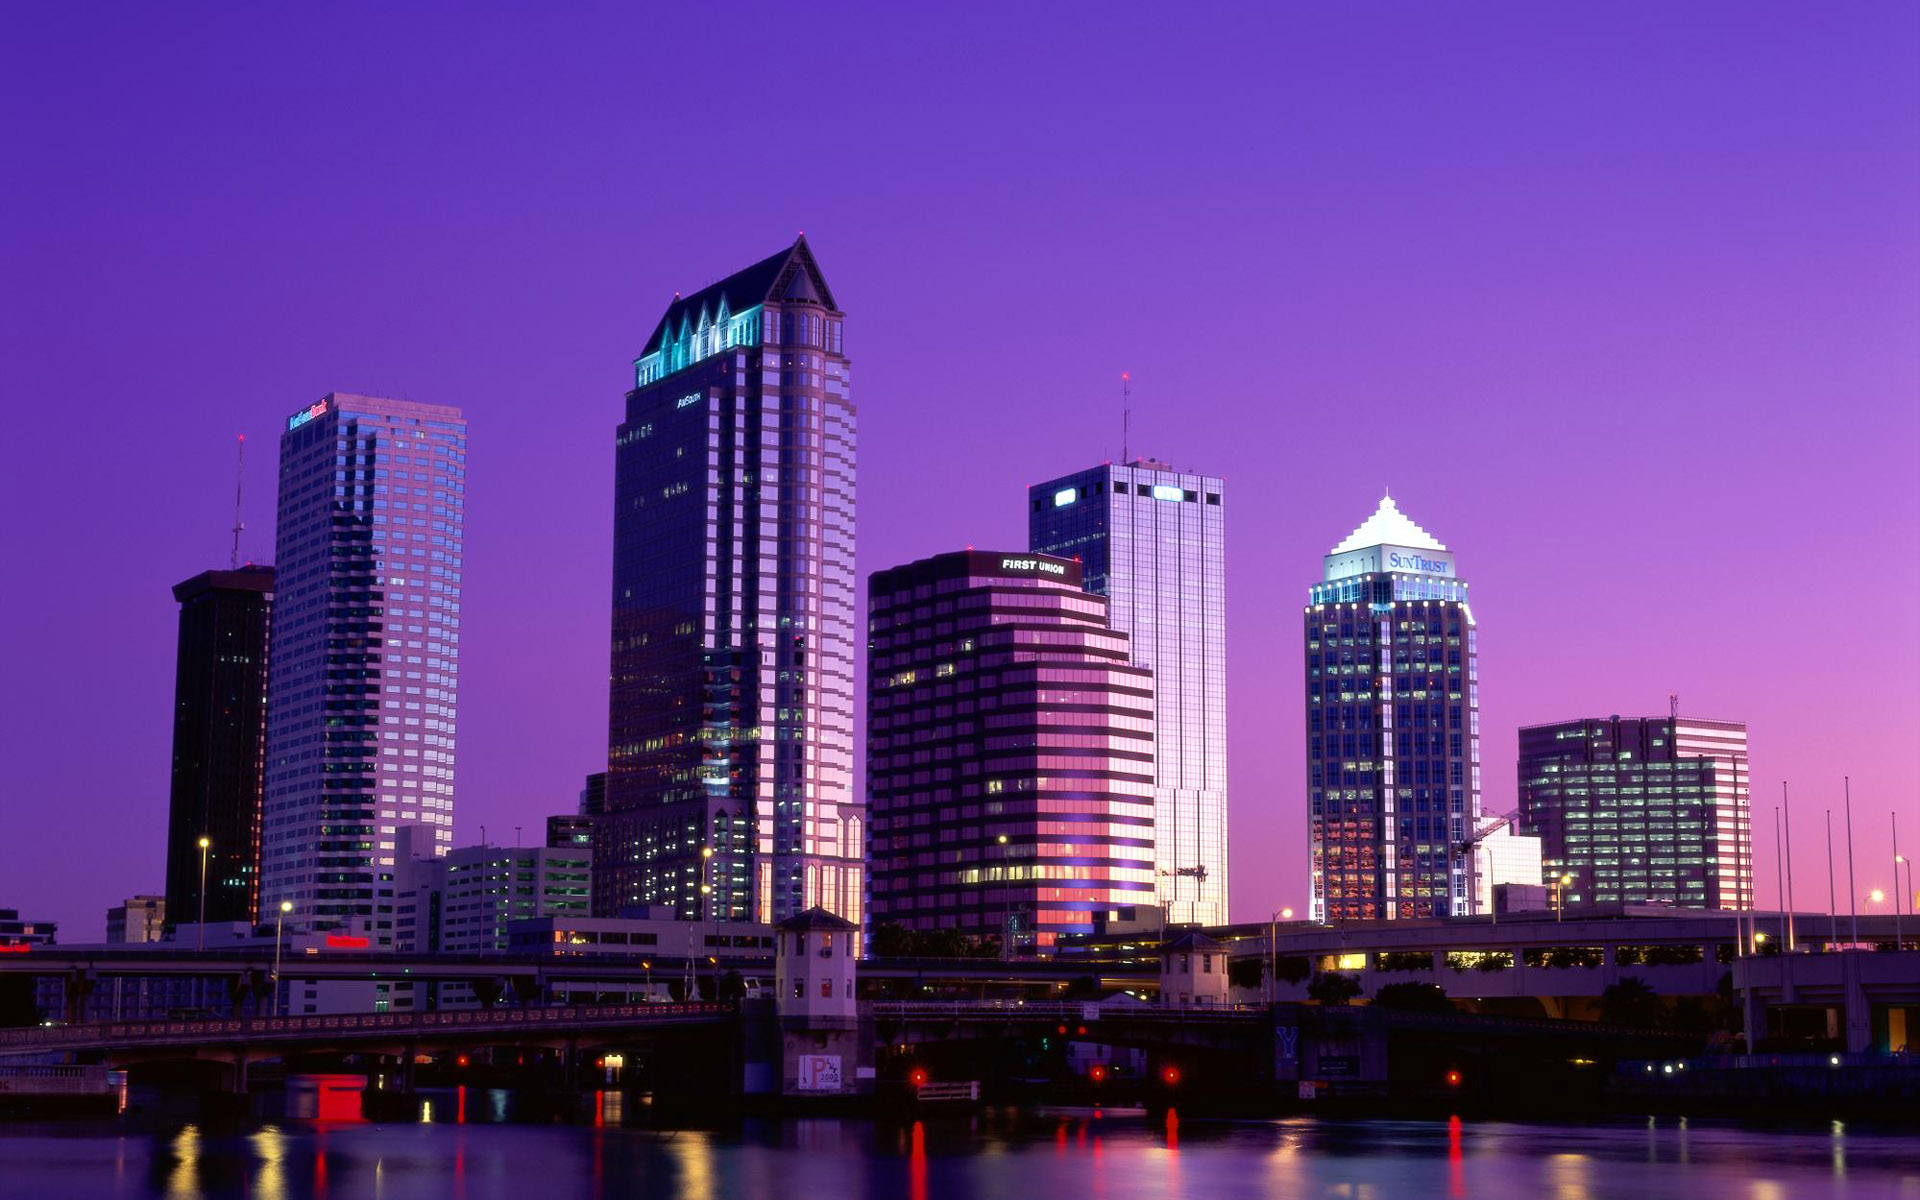
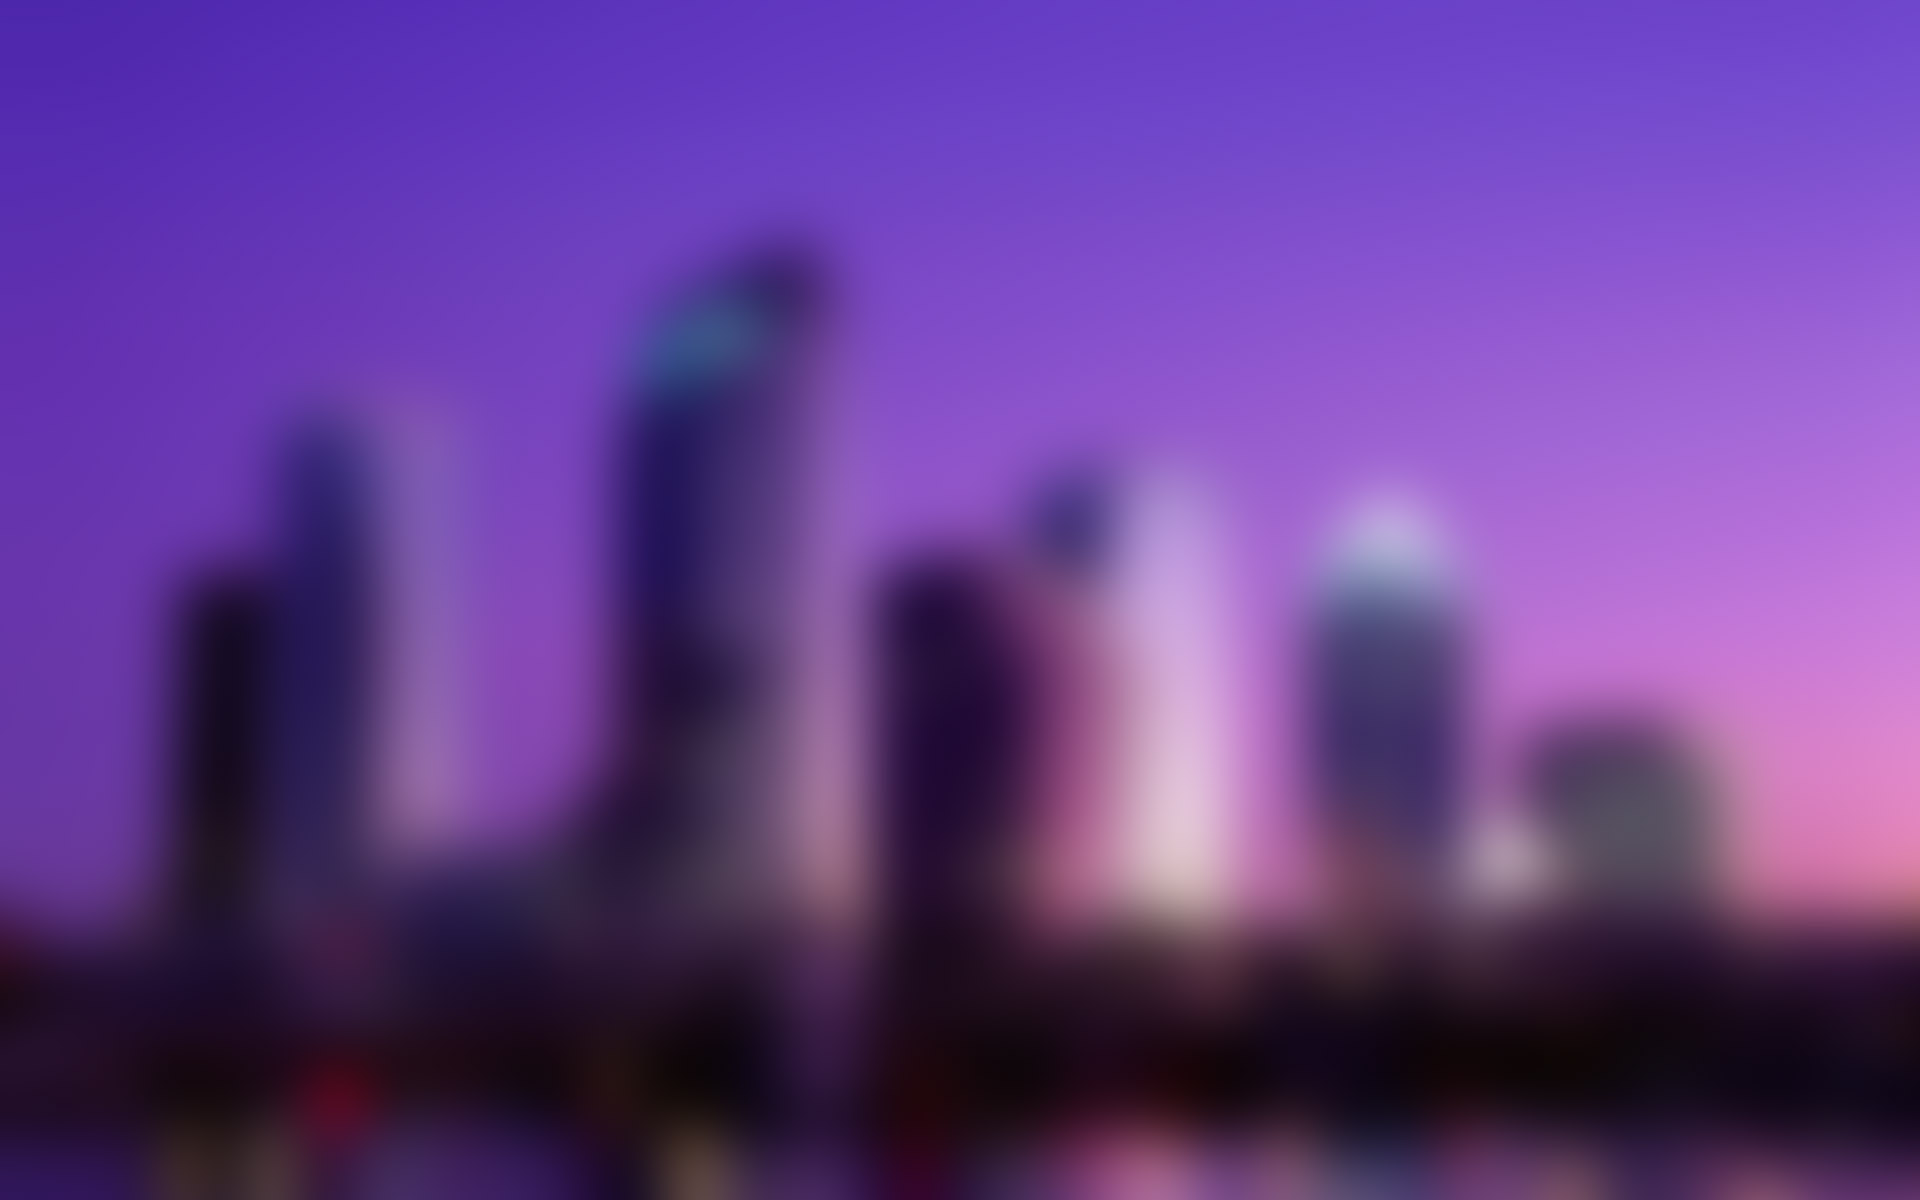
a few more categories

diff --git a/static/css/base.css b/static/css/base.css
@@ -1,25 +1,13 @@
 body {
-  background-color: #111;
+  background: url("/bg.jpg") no-repeat center center fixed;
   font-family: "Roboto", "Helvetica Neue", Helvetica, Arial, sans-serif;
   font-weight: 200;
   padding: 0;
   margin: 0;
-}
-#background {
-  position: fixed;
-  top: 0;
-  left: 0;
-  height: 100%;
-  width: 100%;
-  background: url("/bg.jpg") no-repeat center center fixed;
   -webkit-background-size: cover;
   -moz-background-size: cover;
   -o-background-size: cover;
   background-size: cover;
-  -webkit-filter: blur(20px);
-  -moz-filter: blur(20px);
-  -o-filter: blur(20px);
-  filter: blur(20px);
 }
 main {
   width: 700px;
@@ -38,7 +26,7 @@ main .nav-holder nav {
   height: 100%;
   width: 170px;
   text-align: right;
-  background-color: #666;
+  background-color: #373737;
   padding-right: 20px;
 }
 main .nav-holder nav #monitoringscape {

diff --git a/layouts/index.html b/layouts/index.html
@@ -36,8 +36,6 @@
 </head>
 <body>
 
-  <div id="background"></div>
-  
   <main>
     <div class="nav-holder">
       <nav>
@@ -50,7 +48,7 @@
         {{ end }}
         <div class="icons">
           <a href="https://github.com/bigpandaio/monitoringscape/tree/master/content"><i class="fa fa-github"></i></a>
-          <a href="https://twitter.com/home?status=bigpanda.io/monitoringscape%20%23monitoringscape)"><i class="fa fa-twitter"></i></a>
+          <a href="https://twitter.com/home?status=bigpanda.io/monitoringscape%20%23monitoringscape"><i class="fa fa-twitter"></i></a>
           <a href="https://www.linkedin.com/shareArticle?mini=true&url=bigpanda.io/monitoringscape&title=MonitoringScape"><i class="fa fa-linkedin"></i></a>
         </div>
       </nav>

diff --git a/layouts/shortcodes/tool.html b/layouts/shortcodes/tool.html
@@ -3,9 +3,9 @@
 <tr class="row">
 
   <td><a href="{{.Get 3}}" target="_blank">{{.Get 1}}</a></td>
-  <td>{{.Get 4}}</td>
   <td style="text-align: center">{{.Get 5}}</td>
   <td>{{.Get 6}}</td>
-  <td style="text-align: center">{{if $has_screenshot}}<a href="/screenshots/{{.Get 0}}/{{.Get 2}}.png" target="_blank"><img src="/screenshots/{{.Get 0}}/{{.Get 2}}.thumb.png"/></a>{{end}}
+  <td>{{.Get 4}}</td>
+  <td style="text-align: center">{{if $has_screenshot}}<a class="thumb" href="/screenshots/{{.Get 0}}/{{.Get 2}}.png" target="_blank"><img src="/screenshots/{{.Get 0}}/{{.Get 2}}.thumb.png"/></a>{{end}}
   </td>
 </tr>

diff --git a/content/system.md b/content/system.md
@@ -21,18 +21,19 @@ System monitoring tools frequently employ a **plugin architecture**, making it e
 ## Tool Overview
 {{% tools %}}
   {{% tool system Boundary        boundary "http://www.boundary.com"        ""          2011                "SaaS" %}}
-  {{% tool system Centreon   centreon "https://www.centreon.com"         ""          2005                "On Prem" %}}
+  {{% tool system Centreon   centreon "https://www.centreon.com"         ""          2003                "On Prem" %}}
   {{% tool system collectd    collectd    "https://collectd.org/"       "Open Source, Collection only" 2005     "On Prem" no-screenshot %}}
   {{% tool system CopperEgg   copperegg "http://copperegg.com/"         ""          2010                "SaaS" %}}
   {{% tool system Datadog     datadog "https://www.datadoghq.com/"      ""          2010                "SaaS" %}}
   {{% tool system "Dataloop.io" dataloop "https://www.dataloop.io/"      ""          2014                "SaaS" %}}
   {{% tool system Ganglia     ganglia "http://ganglia.info/"            "Open Source"    2001     "On Prem" %}}
   {{% tool system Icinga      icinga "https://www.icinga.org/"          "Open Source, Forked from Nagios" 2009       "On Prem" %}}
-  {{% tool system LogicMonitor   logicmonitor "http://www.logicmonitor.com/" ""          2008     "SaaS" %}}
+  {{% tool system LogicMonitor   logicmonitor "http://www.logicmonitor.com/" ""          2009     "SaaS" %}}
   {{% tool system Munin     munin "http://munin-monitoring.org/"           "Open Source"    2006     "On Prem" %}}
   {{% tool system Nagios    nagios "https://www.nagios.org/"  "Open Source"     1999      "On Prem" %}}
   {{% tool system OpenNMS   opennms "http://www.opennms.org/"  "Open Source"    2000     "On Prem" %}}
   {{% tool system OpsView   opsview "http://www.opsview.com/"  "Open Source, Forked from Nagios"    2003    "On Prem" %}}
+  {{% tool system PRTG      prtg "https://www.paessler.com/prtg"  ""    1997    "On Prem" %}}
   {{% tool system Scout     scout "https://scoutapp.com/"  ""    2008    "SaaS" %}}
   {{% tool system Sensu     sensu "https://sensuapp.org/"  "Open Source"    2011    "On Prem" %}}
   {{% tool system ServerDensity   serverdensity "https://www.serverdensity.com/"  "Server monitoring only"    2013    "SaaS" %}}

diff --git a/content/logging.md b/content/logging.md
@@ -1,12 +1,29 @@
 ---
-title: Logging
+title: Log Aggregators
 slug: logging
 weight: 4
 type: section
 ---
-* ELK Stack
-* graylog
-* Loggly
-* papertrail
-* Splunk
-* Sumo Logic
+
+Essentially all kinds of software output log files. Logs provide **low-level visibility on application behavior**; they are extremely useful for **debugging**, and can help with tracking **recurring errors**.
+
+The rise of distributed systems resulted in an **explosion in the number of log files and log lines**. Locating an individual transaction in the ocean of log files became impossible. Log aggregators were invented to address this issue. Similarly to the way Google crawls and indexes webpages, log aggregators collect and index all your log data. This allows you to **quickly search** for specific messages, errors and patterns across all your log files.
+
+## Common Features
+
+* Query language for searching logs
+* Timelines & histograms
+* Automatic alerts
+* Customizable dashboards
+* Aggregation functions & analytics
+
+## Tool Overview
+
+{{% tools %}}
+  {{% tool logging "ELK Stack" elk "https://www.elastic.co" "ElasticSearch, LogStash & Kibana. Open Source"          2011                "On Prem" %}}
+  {{% tool logging Graylog   graylog "https://www.graylog.org/"   "Open Source"          2010                "On Prem" %}}
+  {{% tool logging Loggly    loggly    "https://www.loggly.com/"       "" 2009     "SaaS" %}}
+  {{% tool logging Papertrail   papertrail "https://papertrailapp.com/"         ""          2011                "SaaS" %}}
+  {{% tool logging Splunk     splunk "http://www.splunk.com/"      ""          2003                "On Prem" %}}
+  {{% tool logging SumoLogic  sumologic "https://www.sumologic.com/"      ""          2010                "SaaS" %}}
+{{% /tools %}}

diff --git a/content/apm.md b/content/apm.md
@@ -4,10 +4,28 @@ slug: application-performance-monitoring
 weight: 5
 type: section
 ---
-* AppDynamics
-* AppNeta
-* Dynatrace
-* New Relic
-* ruxit
-* stackify
-* Takipi
+
+Application Performance Monitoring tools (APMs) monitor the behavior of your applications by tracking transaction flow, starting with the client, and working down the stack, through the backend and database. They measure performance metrics such as **latency, throughput and error rate**. Use them to detect and debug **user experience issues**.
+
+APMs provide important visibility that would be very hard to achieve otherwise.
+APM agents perform **code-level instrumentation** and therefore require language-specific implementations. Your applications might incur small performance penalties when monitored using APMs.
+
+## Common Features
+* Latency, throughput & error-rate measurement
+* Geography-based segmentation
+* Common errors & occurrence frequency
+* Database query performance
+* Correlation of performance metrics with code deployments
+* Alerting via email, sms, etc.
+
+## Tool Overview
+
+{{% tools %}}
+  {{% tool apm "AppDynamics" appdynamics "https://www.appdynamics.com/" "" 2008 "On Prem & SaaS" %}}
+  {{% tool apm "AppNeta" appneta "http://www.appneta.com/" "" 2010 "SaaS" %}}
+  {{% tool apm "Dynatrace" dynatrace "http://www.dynatrace.com/" "" 1993 "On Prem" %}}
+  {{% tool apm "New Relic" newrelic "http://newrelic.com/" "" 2008 "SaaS" %}}
+  {{% tool apm "Ruxit" ruxit "https://www.ruxit.com/" "" 2014 "SaaS" %}}
+  {{% tool apm "Stackify" stackify "http://stackify.com/" "" 2012 "SaaS" %}}
+  {{% tool apm "Takipi" takipi "https://www.takipi.com/" "" 2011 "SaaS" %}}
+{{% /tools %}}

diff --git a/content/intro.md b/content/intro.md
@@ -10,7 +10,7 @@ We now have a choice of more than 100 monitoring tools allowing for **excellent 
 
 This site is your guide to the new, exciting world of modern monitoring.
 
-<a href="/poster.png" target="_blank"><img src="https://s3.amazonaws.com/elik/monitoringscape/public/poster.png" width="450" /></a>
+<a href="/poster.png" target="_blank"><img src="/poster.png" width="590" /></a>
 
 ## Contribute
 * [Suggest an edit](https://github.com/bigpandaio/monitoringscape/issues)
